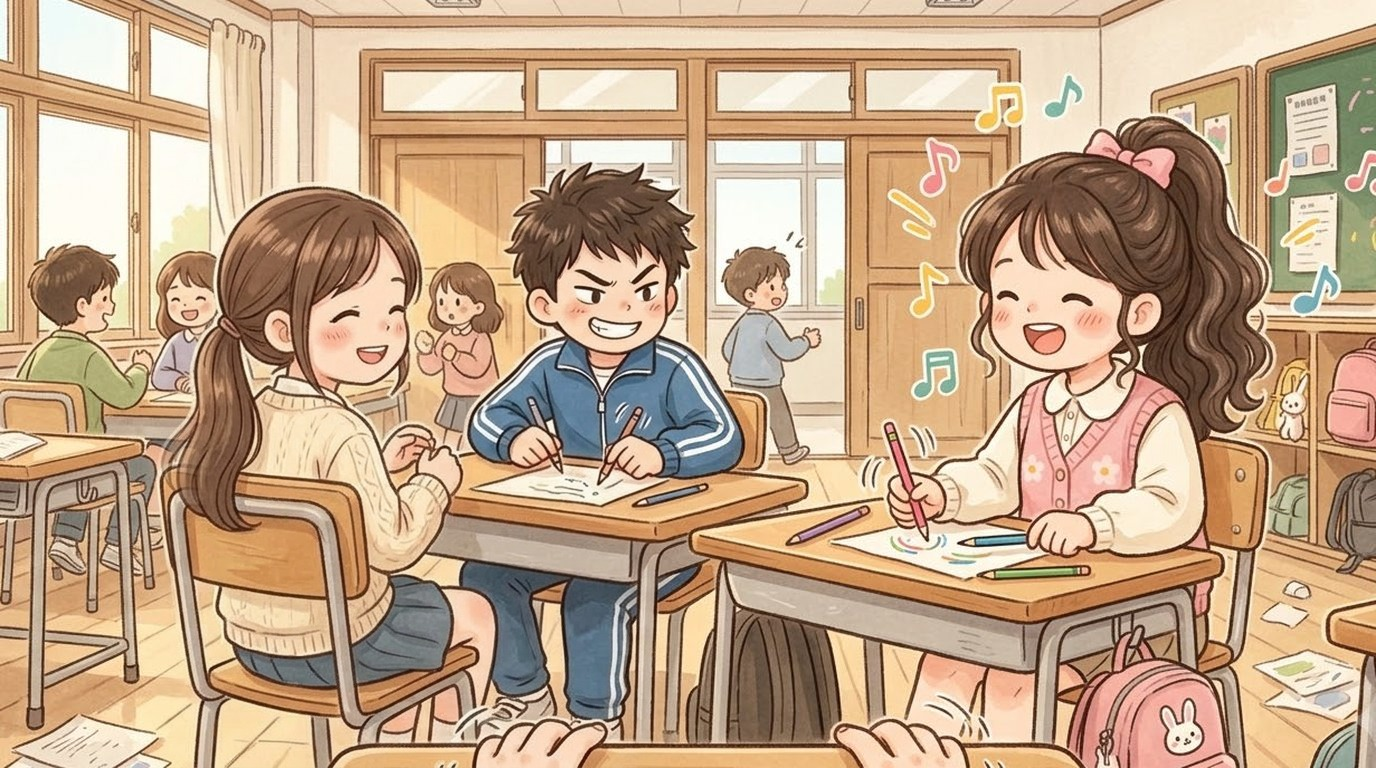
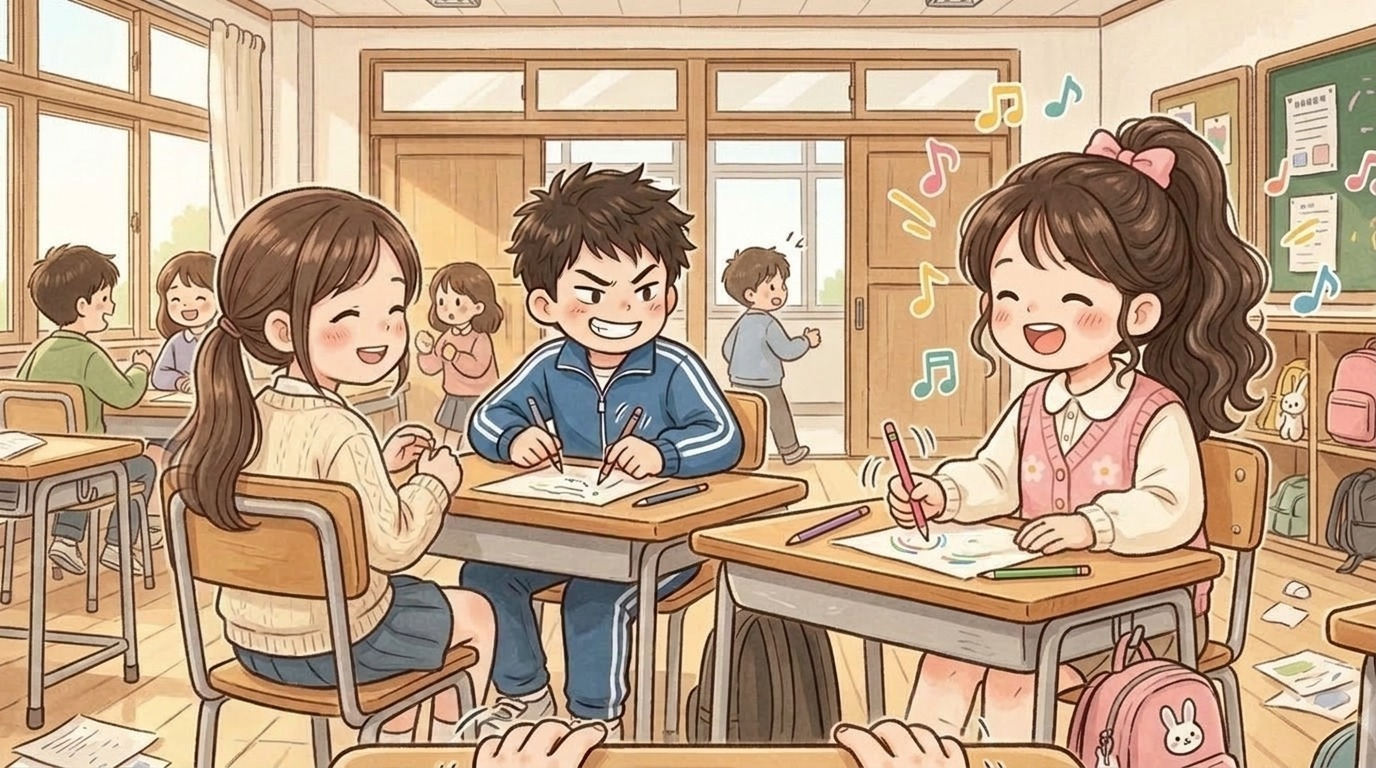
예나 2일차(연필 드럼) yena_01d: 손 셋 → 둘(무릎 쪽 손 지움, 그림 세션 고침·메인 확인)

Changed region(s): [[0.6875, 0.6562, 0.8125, 0.75], [0.6562, 0.9062, 0.7188, 0.9688]]

diff --git a/index.html b/index.html
@@ -119,14 +119,14 @@ body,button{word-break:keep-all;overflow-wrap:break-word}
 <div id="fader"></div>
 <script>
 // same address, newest version: if the page this phone has kept is older than the one online, fetch the new one and reopen
-const BUILD='1109080146';
+const BUILD='1109080416';
 try{fetch(location.pathname,{cache:'no-store'}).then(r=>r.text()).then(t=>{const m=t.match(/const BUILD='(\d+)'/);if(m&&m[1]!==BUILD&&sessionStorage.getItem('upd')!==m[1]){sessionStorage.setItem('upd',m[1]);fetch(location.pathname,{cache:'reload'}).then(()=>location.reload())}}).catch(()=>{})}catch(e){}
 </script>
-<script src="i18n.js?v=1109080146"></script>
-<script src="i18n_prologue_v2.js?v=1109080146"></script>
-<script src="day2/i18n_engine.js?v=1109080146"></script>
-<script src="day2/data.js?v=1109080146"></script>
-<script src="day3/data.js?v=1109080146"></script>
+<script src="i18n.js?v=1109080416"></script>
+<script src="i18n_prologue_v2.js?v=1109080416"></script>
+<script src="day2/i18n_engine.js?v=1109080416"></script>
+<script src="day2/data.js?v=1109080416"></script>
+<script src="day3/data.js?v=1109080416"></script>
 <script>
 // ---------- data ----------
 const MW=1672,MH=941,KID=180;
@@ -569,36 +569,36 @@ function pickHero(){const m=document.getElementById('modal'),c=document.getEleme
  c.innerHTML=`<h2>${tr('전학생 반장되기')}</h2><p>${tr('한국말이 아직 서툰 전학생,<br>반장 선거에 나가다.')}</p><p style="margin-top:14px">${tr('누구로 할까요?')}</p>${(()=>{const s=loadSave();return s&&s.day>=2&&s.mode===UI+'-'+LANG?`<p><button class="big" id="cont">${tr('{n}일차부터 이어 하기').replace('{n}',s.day)}</button></p>`:''})()}<div class="pick heroes"><button data-h="hero_f"><img src="faces/hero_f_smile.jpg" alt="여자 주인공">${heroName(1)}</button><button data-h="hero_m"><img src="faces/hero_m_smile.jpg" alt="남자 주인공">${heroName(0)}</button></div>`;
  m.classList.add('on');{const cb=document.getElementById('cont');if(cb)cb.onclick=()=>{const s=loadSave();HERO=s.hero;Object.assign(HEART,s.heart||{});(s.found||[]).forEach(k=>FOUND.add(k));HEART_D1={...HEART};chime();(typeof contGame==='function'?contGame(s):startDay(Math.min(s.day,Object.keys(window.D3||{}).length?3:2)))}}c.querySelectorAll('.pick button').forEach(b=>b.onclick=()=>{HERO=b.dataset.h;m.classList.remove('on');chime();bgm('day');load('home_am');say([['nar','','이사 온 다음 날 아침. 아직 풀지 못한 상자들이 쌓여 있다.'],['think','sad','(오늘부터 새 학교야. 여기 말도 아직 서툰데…….)'],['think','smile','({m}한테 인사하고 학교 가야지.)']],morning)})}
 </script>
-<script src="day2/engine.js?v=1109080146"></script>
-<script src="day2/ep_minho.js?v=1109080146"></script>
-<script src="day2/meet.js?v=1109080146"></script>
-<script src="day2/ep_sua.js?v=1109080146"></script>
-<script src="day2/ep_hangyeol.js?v=1109080146"></script>
-<script src="day2/ep_siwoo.js?v=1109080146"></script>
-<script src="day2/ep_haram.js?v=1109080146"></script>
-<script src="day2/ep_jiho.js?v=1109080146"></script>
-<script src="day2/ep_hyeeun.js?v=1109080146"></script>
-<script src="day2/ep_haneul.js?v=1109080146"></script>
-<script src="day2/ep_junho.js?v=1109080146"></script>
-<script src="day2/ep_yuna.js?v=1109080146"></script>
-<script src="day2/ep_yena.js?v=1109080146"></script>
-<script src="day2/ep_haeun.js?v=1109080146"></script>
-<script src="day2/ep_youngmin.js?v=1109080146"></script>
-<script src="day2/ep_seah.js?v=1109080146"></script>
-<script src="day2/ep_jihoon.js?v=1109080146"></script>
-<script src="words_ja_ru.js?v=1109080146"></script>
-<script src="day2/mybag.js?v=1109080146"></script>
-<script src="day2/wordpics.js?v=1109080146"></script>
-<script src="day2/spots.js?v=1109080146"></script>
-<script src="day2/textfit.js?v=1109080146"></script>
-<script src="day2/tester.js?v=1109080146"></script>
-<script src="day2/ux.js?v=1109080146"></script>
-<script src="day2/tapword.js?v=1109080146"></script>
-<script src="day2/review.js?v=1109080146"></script>
-<script src="day2/plane.js?v=1109080146"></script>
-<script src="day2/bubble.js?v=1109080146"></script>
-<script src="day2/ep_ending.js?v=1109080146"></script>
-<script src="day2/ending.js?v=1109080146"></script>
+<script src="day2/engine.js?v=1109080416"></script>
+<script src="day2/ep_minho.js?v=1109080416"></script>
+<script src="day2/meet.js?v=1109080416"></script>
+<script src="day2/ep_sua.js?v=1109080416"></script>
+<script src="day2/ep_hangyeol.js?v=1109080416"></script>
+<script src="day2/ep_siwoo.js?v=1109080416"></script>
+<script src="day2/ep_haram.js?v=1109080416"></script>
+<script src="day2/ep_jiho.js?v=1109080416"></script>
+<script src="day2/ep_hyeeun.js?v=1109080416"></script>
+<script src="day2/ep_haneul.js?v=1109080416"></script>
+<script src="day2/ep_junho.js?v=1109080416"></script>
+<script src="day2/ep_yuna.js?v=1109080416"></script>
+<script src="day2/ep_yena.js?v=1109080416"></script>
+<script src="day2/ep_haeun.js?v=1109080416"></script>
+<script src="day2/ep_youngmin.js?v=1109080416"></script>
+<script src="day2/ep_seah.js?v=1109080416"></script>
+<script src="day2/ep_jihoon.js?v=1109080416"></script>
+<script src="words_ja_ru.js?v=1109080416"></script>
+<script src="day2/mybag.js?v=1109080416"></script>
+<script src="day2/wordpics.js?v=1109080416"></script>
+<script src="day2/spots.js?v=1109080416"></script>
+<script src="day2/textfit.js?v=1109080416"></script>
+<script src="day2/tester.js?v=1109080416"></script>
+<script src="day2/ux.js?v=1109080416"></script>
+<script src="day2/tapword.js?v=1109080416"></script>
+<script src="day2/review.js?v=1109080416"></script>
+<script src="day2/plane.js?v=1109080416"></script>
+<script src="day2/bubble.js?v=1109080416"></script>
+<script src="day2/ep_ending.js?v=1109080416"></script>
+<script src="day2/ending.js?v=1109080416"></script>
 <script>
 // the goal shows big for a few seconds, then folds into a small pill (tap it to open it again)
 {const g=document.getElementById('goal');let t=null;const big=()=>{g.classList.remove('mini');clearTimeout(t);t=setTimeout(()=>g.classList.add('mini'),4000)};
